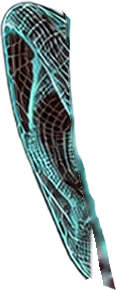
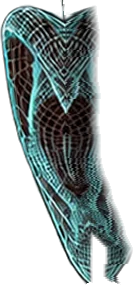
Character v3: fix the mouth under the beard and the ear cut
- Face under the beard: colour carried down each column (no orange/teal
  bleed), a 1.25x coarser mesh away from the lips to match the new art's
  line spacing, and a match to the source where they meet (no outline)
- Ears: the face's glowing rim now goes with the face, split along the dark
  crease, and each ear continues 24px under the face, then fades, so the
  head turn no longer opens a gap or leaves a strip behind
- Beard keeps the whiskers inside the mouth hole
- Hero stills re-baked; ADR 0005 updated

Claude-Session: https://claude.ai/code/session_01PDghr1U5saYiR9N3dbNNMs

diff --git a/scripts/cut-character.py b/scripts/cut-character.py
@@ -49,6 +49,20 @@ TOP_DOWN = ['beard', 'brow-left', 'brow-right', 'face', 'ear-left', 'ear-right',
 # The beard keeps its whisker tips: its template is widened this much (2x px)
 # inside the outline, so what reads as beard in the new art stays with it.
 BEARD_GROW = 5
+BEARD_GROW_HOLE = 9
+# The face's outline is a glowing rim a few px wide; pixels this close outside
+# the template's outline are rim, and must move with the face, not an ear.
+FACE_RIM = 8
+# How far each ear continues under the face (2x px). At a full turn the face
+# moves ~14px further than the ears (DEPTH 0.6 vs 0.35 x TURN_X 26), so this
+# has to be more than that, with a soft end beyond it.
+EAR_UNDER = 24
+EAR_FADE = 10
+# The template's mouth, in 2x head-frame px: the lips (centre x, y, radii) keep
+# their own lines; the rest of the hidden face takes a coarser mesh, scaled
+# about `centre` by MESH_SCALE to match the new art's line spacing.
+MOUTH = {'lips': (430, 980, 170, 60), 'centre': (430, 1060)}
+MESH_SCALE = 1.25
 
 
 def disk(r):
@@ -111,13 +125,21 @@ def align(src, tpl):
 def ownership(tpl, new_alpha):
     """How much of each pixel each part owns (sums to 1 wherever the new art is)."""
     alpha = {k: tpl[k][..., 3].copy() for k in TOP_DOWN}
-    alpha['beard'] = np.maximum(alpha['beard'], ndimage.grey_dilation(alpha['beard'], footprint=disk(BEARD_GROW)))
+    grown = ndimage.grey_dilation(alpha['beard'], footprint=disk(BEARD_GROW))
+    # Inside the mouth hole the whiskers reach further; they go with the beard too.
+    solid = alpha['beard'] > 0.5
+    hole = ndimage.binary_fill_holes(solid) & ~solid
+    grown = np.where(hole, ndimage.grey_dilation(alpha['beard'], footprint=disk(BEARD_GROW_HOLE)), grown)
+    alpha['beard'] = np.maximum(alpha['beard'], grown)
     union = np.max(np.stack(list(alpha.values())), 0)
     hard = np.zeros((H, W), np.int32)
     for i, k in enumerate(reversed(TOP_DOWN)):
         hard[alpha[k] > 0.5] = i + 1
     _, (iy, ix) = ndimage.distance_transform_edt(hard == 0, return_indices=True)
     near = hard[iy, ix]
+    face_label = len(TOP_DOWN) - TOP_DOWN.index('face')
+    near_face = ndimage.distance_transform_edt(alpha['face'] < 0.5) <= FACE_RIM
+    near[(union < 0.5) & near_face] = face_label
     ext = {}
     for i, k in enumerate(reversed(TOP_DOWN)):
         e = alpha[k].copy()
@@ -133,17 +155,127 @@ def ownership(tpl, new_alpha):
     return own, ext
 
 
-def colour_field(img, mask, sigmas=(12, 30, 70, 160, 400)):
-    """The low-frequency colour of `img` where `mask`, carried outward into the rest."""
+def colour_field(img, mask, sy, sx, levels=(1, 2, 4, 8, 16)):
+    """The low-frequency colour of `img` where `mask`, carried outward into the rest.
+
+    Anisotropic: the face is teal on one side and orange on the other, split down
+    the middle, so colour is carried mostly down each column, not across.
+    """
     out = np.zeros_like(img)
     filled = np.zeros(mask.shape, np.float32)
-    for s in sigmas:
+    for k in levels:
+        s = (sy * k, sx * k)
         num = np.dstack([ndimage.gaussian_filter(img[..., c] * mask, s) for c in range(img.shape[2])])
         den = ndimage.gaussian_filter(mask, s)
-        weight = np.clip(den / 0.2, 0, 1) * (1 - filled)
+        weight = np.clip(den / 0.15, 0, 1) * (1 - filled)
         out += num / np.maximum(den, 1e-6)[..., None] * weight[..., None]
         filled += weight
     return out / np.maximum(filled, 1e-6)[..., None]
+
+
+def detail(lum, mask, s=3):
+    """The lines: luminance minus its local average."""
+    return lum - ndimage.gaussian_filter(lum * mask, s) / np.maximum(ndimage.gaussian_filter(mask, s), 1e-6)
+
+
+def face_under_beard(tpl, rgb, a, own, beard):
+    """The face, whole: what the source shows, and the template's chin and lips
+    where the beard hides it, in the source's colours and line contrast, matched
+    to the source where the two meet so no outline shows."""
+    old = tpl['face']
+    old_a = old[..., 3]
+    shows = np.clip(a * own['face'], 0, 1)
+    brows = (tpl['brow-left'][..., 3] > 0.02) | (tpl['brow-right'][..., 3] > 0.02)
+    skin = (shows > 0.95) & (old_a > 0.95) & ~brows
+    skin = ndimage.binary_erosion(skin, iterations=2).astype(np.float32)
+    lab_new = color.rgb2lab(rgb)
+    lab_old = color.rgb2lab(np.clip(old[..., :3], 0, 1))
+    # Colour: the source's, carried down from the cheeks and lips; form: the template's.
+    syn = lab_old - colour_field(lab_old, (old_a > 0.9).astype(np.float32), 30, 6) + colour_field(lab_new, skin, 30, 6)
+    # Lines: the template's mesh is ~25% finer than the new art's, so away from the
+    # lips (and the jaw's outline) it's drawn 1.25x coarser, then set to the
+    # source's line contrast.
+    d_new = detail(lab_new[..., 0], skin)
+    d_old = detail(lab_old[..., 0], (old_a > 0.5).astype(np.float32))
+    yy, xx = np.mgrid[0:H, 0:W]
+    cx, cy = MOUTH['centre']
+    coarse = ndimage.map_coordinates(d_old, [cy + (yy - cy) / MESH_SCALE, cx + (xx - cx) / MESH_SCALE], order=1, mode='nearest')
+    hidden = (beard > 0.3) & (old_a > 0.5)
+    coarse *= np.std(d_old[hidden]) / np.std(coarse[hidden])
+    lx, ly, rx, ry = MOUTH['lips']
+    keep = np.clip(1.6 - np.hypot((xx - lx) / rx, (yy - ly) / ry), 0, 1)
+    keep = np.maximum(keep, np.clip(1 - ndimage.distance_transform_edt(old_a > 0.5) / 12, 0, 1))
+    lines = d_old * keep + coarse * (1 - keep)
+    gain = float(np.std(d_new[skin > 0][::7]) / np.std(d_old[hidden][::7]))
+    syn[..., 0] += lines * gain - d_old
+    # Where they meet: the difference to the source, fading out ~20px into the hidden part.
+    edge = ndimage.binary_dilation(skin > 0) & ~ndimage.binary_erosion(skin > 0, iterations=14)
+    diff = colour_field(lab_new - syn, edge.astype(np.float32), 5, 5, levels=(1, 2, 4))
+    syn += diff * np.exp(-ndimage.distance_transform_edt(skin == 0) / 22)[..., None]
+    under = np.clip(color.lab2rgb(syn), 0, 1)
+    cover = (1 - shows / np.maximum(a, 1e-3)) * (old_a > 0.02)
+    k = np.where(skin > 0, 0, np.clip(ndimage.gaussian_filter(cover, 2.5), 0, 1))
+    face_rgb = rgb * (1 - k[..., None]) + under * k[..., None]
+    face_alpha = np.where(old_a < 0.02, shows, np.maximum(shows, old_a * beard))
+    print(f'face under the beard: line contrast x{gain:.2f}')
+    return face_rgb, face_alpha
+
+
+def split_ear(tpl, rgb, a, own, name):
+    """Where the face's rim ends and the ear begins, row by row: the dark crease
+    between them. Everything on the face's side goes to the face, so its rim
+    turns with it; the ear goes on under the face, mirrored across the crease."""
+    right = name == 'ear-left'          # the character's left ear is on the picture's right
+    ear_t = tpl[name][..., 3] > 0.3
+    face_t = tpl['face'][..., 3] > 0.5
+    lum = ndimage.gaussian_filter(0.2126 * rgb[..., 0] + 0.7152 * rgb[..., 1] + 0.0722 * rgb[..., 2], (4, 1))
+    crease = {}
+    for y in np.where(ear_t.any(1))[0]:
+        cols = np.where(face_t[y])[0]
+        if not len(cols):
+            continue
+        e = cols.max() if right else cols.min()
+        # The rim sits just outside the template's outline on the right, just inside it on the left.
+        xs = np.arange(e + 2, e + 15) if right else np.arange(e - 8, e + 5)
+        xs = xs[a[y, xs] > 0.5]
+        if len(xs):
+            crease[y] = xs[np.argmin(lum[y, xs])]
+    ys = np.array(sorted(crease))
+    cs = ndimage.median_filter(np.array([crease[y] for y in ys], float), size=31, mode='nearest')
+    cs = ndimage.uniform_filter1d(cs, 15, mode='nearest')
+
+    xx = np.arange(W)[None, :]
+    band = np.zeros((H, W), bool)
+    band[ys] = np.abs(xx - cs[:, None]) <= 40
+    c_map = np.zeros(H)
+    c_map[ys] = cs
+    # A soft, 1px split, so the face's edge here is as clean as the rest of its outline.
+    ear_side = np.clip(((xx - c_map[:, None]) if right else (c_map[:, None] - xx)) + 0.5, 0, 1) * band
+    pair = own['face'] + own[name]
+    own['face'] = np.where(band, pair * (1 - ear_side), own['face'])
+    own[name] = np.where(band, pair * ear_side, own[name])
+
+    shows = np.clip(a * own[name], 0, 1)
+    # Under the face: the ear's own texture mirrored across the crease, shaded a
+    # little deeper the further it goes in (it's tucked under the face), opaque
+    # for EAR_UNDER px, then fading out.
+    part_rgb = rgb.copy()
+    part_a = shows.copy()
+    under = np.zeros((H, W), bool)
+    for y, c in zip(ys, np.round(cs).astype(int)):
+        for d in range(EAR_UNDER + EAR_FADE):
+            x = c - d if right else c + d                 # under the face
+            m = c + 1 + d if right else c - 1 - d         # its mirror on the ear
+            if not (0 <= x < W and 0 <= m < W):
+                continue
+            fade = 1.0 if d < EAR_UNDER else 1 - (d - EAR_UNDER + 1) / (EAR_FADE + 1)
+            part_rgb[y, x] = rgb[y, m] * (0.8 - 0.3 * d / (EAR_UNDER + EAR_FADE))
+            part_a[y, x] = max(part_a[y, x], shows[y, m] * fade)
+            under[y, x] = True
+    # Row by row leaves stair-steps where the ear ends; soften them.
+    zone = ndimage.binary_dilation(under, iterations=3) & ~(shows > 0.6)
+    part_a = np.where(zone, np.minimum(part_a, ndimage.gaussian_filter(part_a, 1.5)), part_a)
+    return part_rgb, part_a
 
 
 def cut(src_path):
@@ -160,31 +292,19 @@ def cut(src_path):
     for k in ('beard', 'brow-left', 'brow-right'):
         parts[k] = (rgb, a * own[k])
 
-    # The face: what shows, plus the template's chin and lips under the beard,
-    # moved into the new art's colours (Lab detail of the old, colour of the new).
-    old = tpl['face']
-    face_a_old = old[..., 3]
-    beard = np.clip(ext['beard'], 0, 1)
-    shows = np.clip(a * own['face'], 0, 1)
-    skin = (shows > 0.9).astype(np.float32)
-    lab_new = color.rgb2lab(rgb)
-    lab_old = color.rgb2lab(np.clip(old[..., :3], 0, 1))
-    under = color.lab2rgb(lab_old - colour_field(lab_old, (face_a_old > 0.9).astype(np.float32))
-                          + colour_field(lab_new, skin))
-    k = np.where(skin > 0, 0, np.clip(ndimage.gaussian_filter(beard, 2), 0, 1))
-    face_rgb = rgb * (1 - k[..., None]) + under * k[..., None]
-    face_alpha = np.where(face_a_old < 0.02, shows, np.maximum(shows, face_a_old * beard))
-    parts['face'] = (face_rgb, face_alpha)
+    # Ears first: they hand the face's rim back to the face.
+    for name in ('ear-left', 'ear-right'):
+        parts[name] = split_ear(tpl, rgb, a, own, name)
+    parts['face'] = face_under_beard(tpl, rgb, a, own, np.clip(ext['beard'], 0, 1))
 
-    # Eyes and ears sit under the face: continue what shows into what it covers,
-    # so the head can turn and the eyes can move without an edge appearing.
-    covers = ndimage.gaussian_filter(face_a_old, 1) > 0.3
+    # Eyes sit under the face: continue what shows into what it covers, so they
+    # can move in their sockets without an edge appearing.
+    covers = ndimage.gaussian_filter(tpl['face'][..., 3], 1) > 0.3
     bgr = cv2.cvtColor((rgb * 255).astype(np.uint8), cv2.COLOR_RGB2BGR)
-    for name in ('ear-left', 'ear-right', 'eye-left', 'eye-right'):
+    for name in ('eye-left', 'eye-right'):
         tpl_a = tpl[name][..., 3]
         shows = np.clip(a * own[name], 0, 1)
-        mine = shows > 0.6
-        hidden = (tpl_a > 0.02) & ~mine & covers
+        hidden = (tpl_a > 0.02) & (shows <= 0.6) & covers
         filled = cv2.inpaint(bgr, hidden.astype(np.uint8) * 255, 5, cv2.INPAINT_TELEA)
         part_rgb = cv2.cvtColor(filled, cv2.COLOR_BGR2RGB).astype(np.float32) / 255
         parts[name] = (part_rgb, np.maximum(shows, np.where(hidden, tpl_a, 0)))

diff --git a/docs/adr/0005-character-component.md b/docs/adr/0005-character-component.md
@@ -65,8 +65,9 @@ The head art was refreshed (new colours, eyes, texture) and delivered as one fla
 - **Cut:** `scripts/cut-character.py <render> --version v3` lines the render up with the head frame by the pupils (so the glasses and cap still fit), gives every pixel to the part that shows there in v2, and writes `public/character/v3/head/*.webp` plus the boxes in `characterLayout.json`. Put back together, the parts match the render to a mean 0.1/255.
 - **Template and source:** the v2 head parts moved to `scripts/character/template/`; the render is `scripts/character/head-v3-source.webp` (lossless). The cap and the glasses stay v2.
 - **What a flat render can't give:**
-  - The face under the beard isn't in it. v3's chin and lips under the beard are v2's, moved into the new colours (v2's Lab detail, v3's low-frequency colour). Only What I Do's bare-face step shows it; everywhere else the beard covers it.
-  - Eyes and ears where the face covers them are continued from what shows (OpenCV Telea), so the turn and the gaze never uncover an edge.
+  - The face under the beard isn't in it. There, v3's face is v2's chin and lips with the new art's colour (carried down each column, since the face is teal on one side and orange on the other), its line contrast, and a mesh drawn 1.25x coarser away from the lips to match its line spacing. It's matched to the source where the two meet, so no outline shows. Only What I Do's bare-face step shows it; everywhere else the beard covers it.
+  - Ears: the face's glowing rim goes with the face (the split follows the dark crease between rim and ear), and each ear continues ~24px under the face, mirrored and shaded, then fades. At a full turn the face moves ~14px further than the ears, so the join never opens.
+  - Eyes where the face covers them are continued from what shows (OpenCV Telea), so the gaze never uncovers an edge.
 - **Stills:** the hero's side characters and the phone portrait were re-baked with the same recipes, so the stills still match the live layers they crossfade into.
 - **If the beardless face arrives**, cut it the same way and swap the face's lower half for it; nothing else changes.
 
